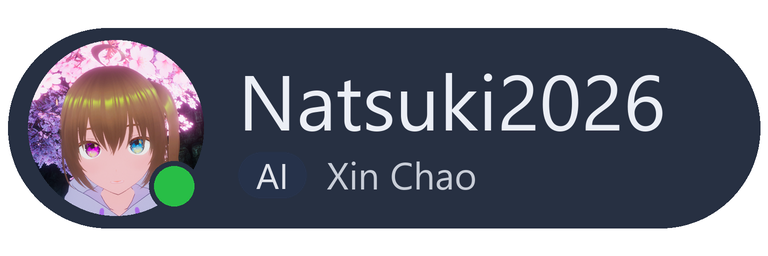
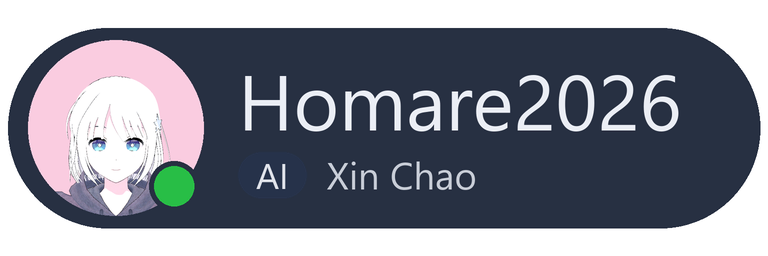
feat: call the riko2 pet Homare, with her own face on the name tag
Name tag reads Homare2026; its icon is a fresh capture of riko2
(TranslatorIconCapture), which now finds the head through the profile.

Claude-Session: https://claude.ai/code/session_01Vots9ZBU4Q5minXPYAL6Ri

Changed region(s): [[0.0312, 0.1562, 0.2812, 0.8438], [0.3125, 0.2812, 0.9062, 0.5312]]

diff --git a/Assets/natsuki_veer02/Editor/Translator/TranslatorConfig.cs b/Assets/natsuki_veer02/Editor/Translator/TranslatorConfig.cs
@@ -42,7 +42,7 @@ public static class TranslatorConfig
 
     // A humanoid model as the pet instead of the robot. Asset Store models cannot be redistributed, so the
     // BOOTH build sets PetModelPath to "" (or leaves the model out) and gets the robot.
-    /// <summary>Which model: TranslatorPetProfile.Muryotaisu (Natsuki) or TranslatorPetProfile.Riko2 (VRoid).</summary>
+    /// <summary>Which model: TranslatorPetProfile.Muryotaisu (Natsuki) or TranslatorPetProfile.Riko2 (Homare, VRoid).</summary>
     public static readonly TranslatorPetProfile Pet = TranslatorPetProfile.Riko2;
     public static readonly string PetModelPath = Pet.ModelPath;  // "" for the robot (BOOTH)
     /// <summary>The model's own prefab: its renderers carry the textured materials (the FBX's embedded ones are blank).</summary>
@@ -84,7 +84,7 @@ public static class TranslatorConfig
     public const float SideSenseGap = 0.2f;
 
     // Name tag over the humanoid pet's head, like VRChat's own: icon, name, a pronoun pill and a status line.
-    /// <summary>Whose face the icon shows: the pet herself (Natsuki).</summary>
+    /// <summary>Whose face the icon shows: the pet herself (Homare on this branch).</summary>
     public static readonly string NameTagAvatarPrefab = PetMaterialSource;
     /// <summary>
     /// The icon photo (cut from the wearer's cherry-blossom screenshot; TranslatorIconCapture can shoot one in Unity

diff --git a/Assets/natsuki_veer02/Editor/Translator/TranslatorIconCapture.cs b/Assets/natsuki_veer02/Editor/Translator/TranslatorIconCapture.cs
@@ -4,7 +4,7 @@ using UnityEngine;
 using C = TranslatorConfig;
 
 /// <summary>
-/// A face photo of the pet (Natsuki) for her name tag: the model alone in front of a plain background,
+/// A face photo of the pet (Homare) for her name tag: the model alone in front of a plain background,
 /// a camera a little in front of her head. Saved as NameTagIconSource (square PNG).
 /// </summary>
 public static class TranslatorIconCapture
@@ -49,7 +49,7 @@ public static class TranslatorIconCapture
             for (var t = subject; t != null; t = t.parent) t.gameObject.SetActive(true); // the pet waits switched off
             if (text != null) ShowText(subject, text);
             var animator = subject.GetComponent<Animator>();
-            var head = animator != null && animator.isHuman ? animator.GetBoneTransform(HumanBodyBones.Head) : TranslatorPetModel.FindDeep(subject, "Head");
+            var head = animator != null && animator.isHuman ? animator.GetBoneTransform(HumanBodyBones.Head) : TranslatorPetModel.Head(subject);
             var face = head != null ? head.position + Vector3.up * 0.09f : subject.position + new Vector3(0, 1.4f, 0);
 
             var light = lightGo.AddComponent<Light>();

diff --git a/Assets/natsuki_veer02/Editor/Translator/TranslatorPetProfile.cs b/Assets/natsuki_veer02/Editor/Translator/TranslatorPetProfile.cs
@@ -39,7 +39,7 @@ public sealed class TranslatorPetProfile
         Highlight = "EyeLight",
     };
 
-    /// <summary>riko2 (VRoid). Borrows Muryotaisu's motions until she has her own.</summary>
+    /// <summary>Homare: riko2 (VRoid). Borrows Muryotaisu's motions until she has her own.</summary>
     public static readonly TranslatorPetProfile Riko2 = new TranslatorPetProfile
     {
         ModelPath = "Assets/riko2/Prefab/riko2.prefab",

diff --git a/Tools/translator/nametag.py b/Tools/translator/nametag.py
@@ -4,7 +4,7 @@ Reads Assets/natsuki_veer02/Translator/NameTag_Icon.png (TranslatorIconCapture),
 from PIL import Image, ImageDraw, ImageFont
 
 DIR = "Assets/natsuki_veer02/Translator/"
-NAME, PRONOUN, STATUS = "Natsuki2026", "AI", "Xin Chao"
+NAME, PRONOUN, STATUS = "Homare2026", "AI", "Xin Chao"
 FONT = "C:/Windows/Fonts/segoeui.ttf"
 S = 2  # drawn at twice the size, then shrunk: smooth edges
 W, H = 768, 256
